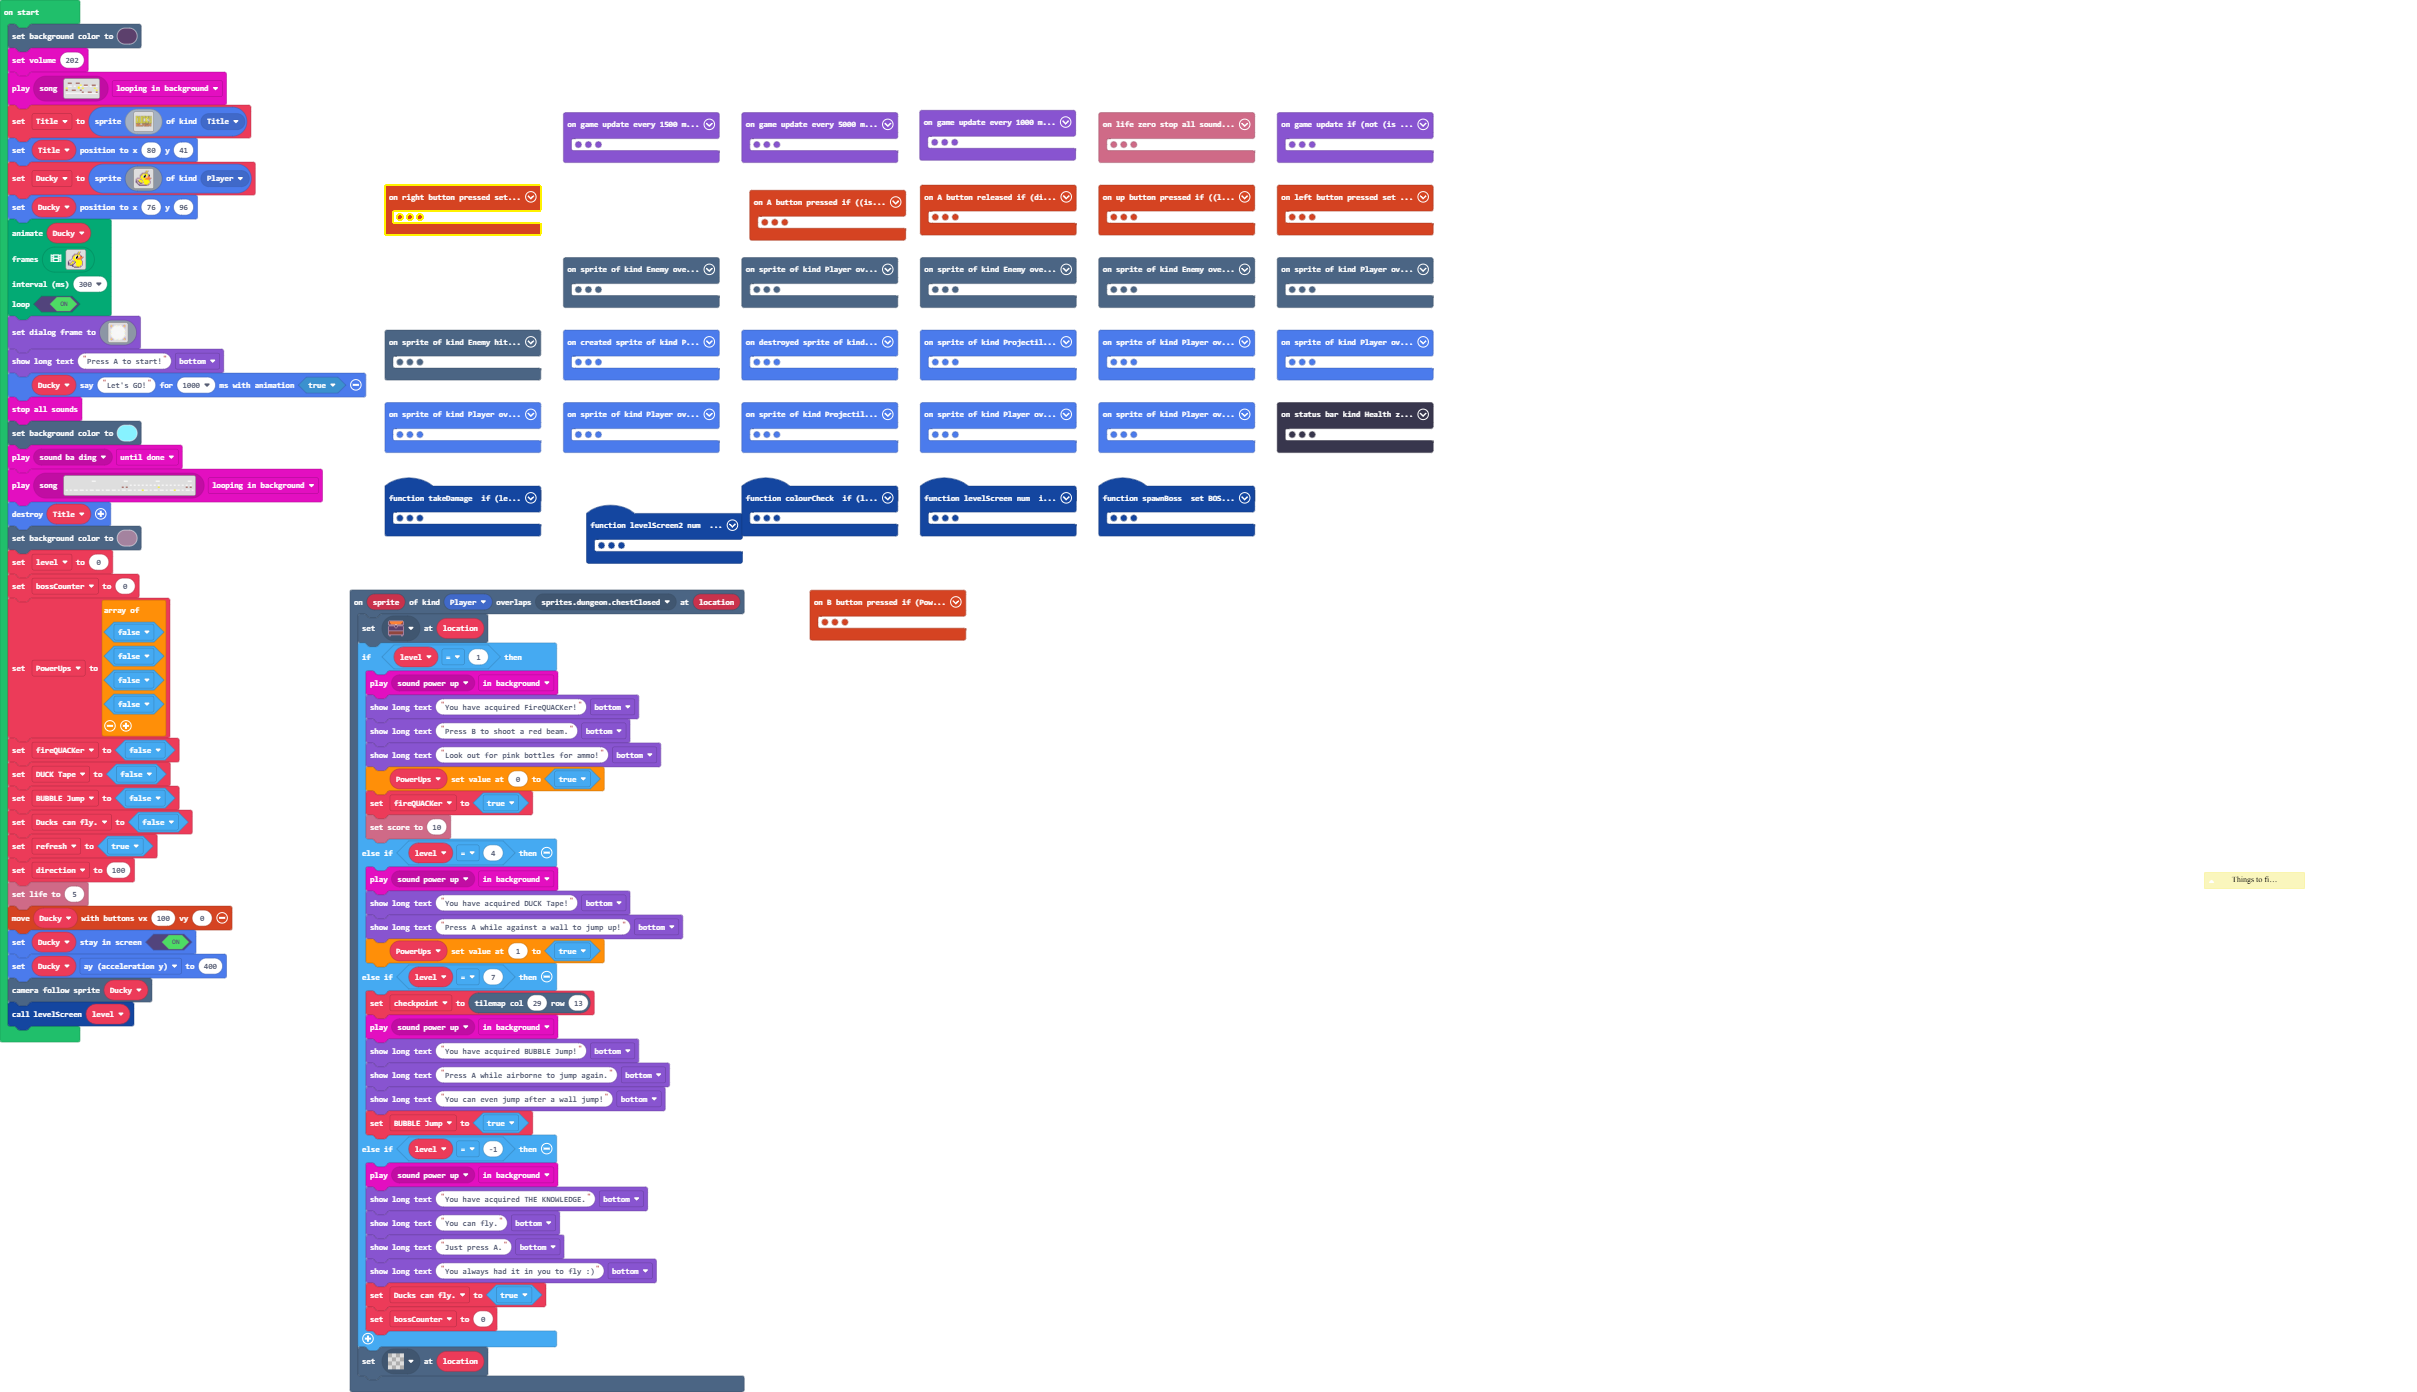
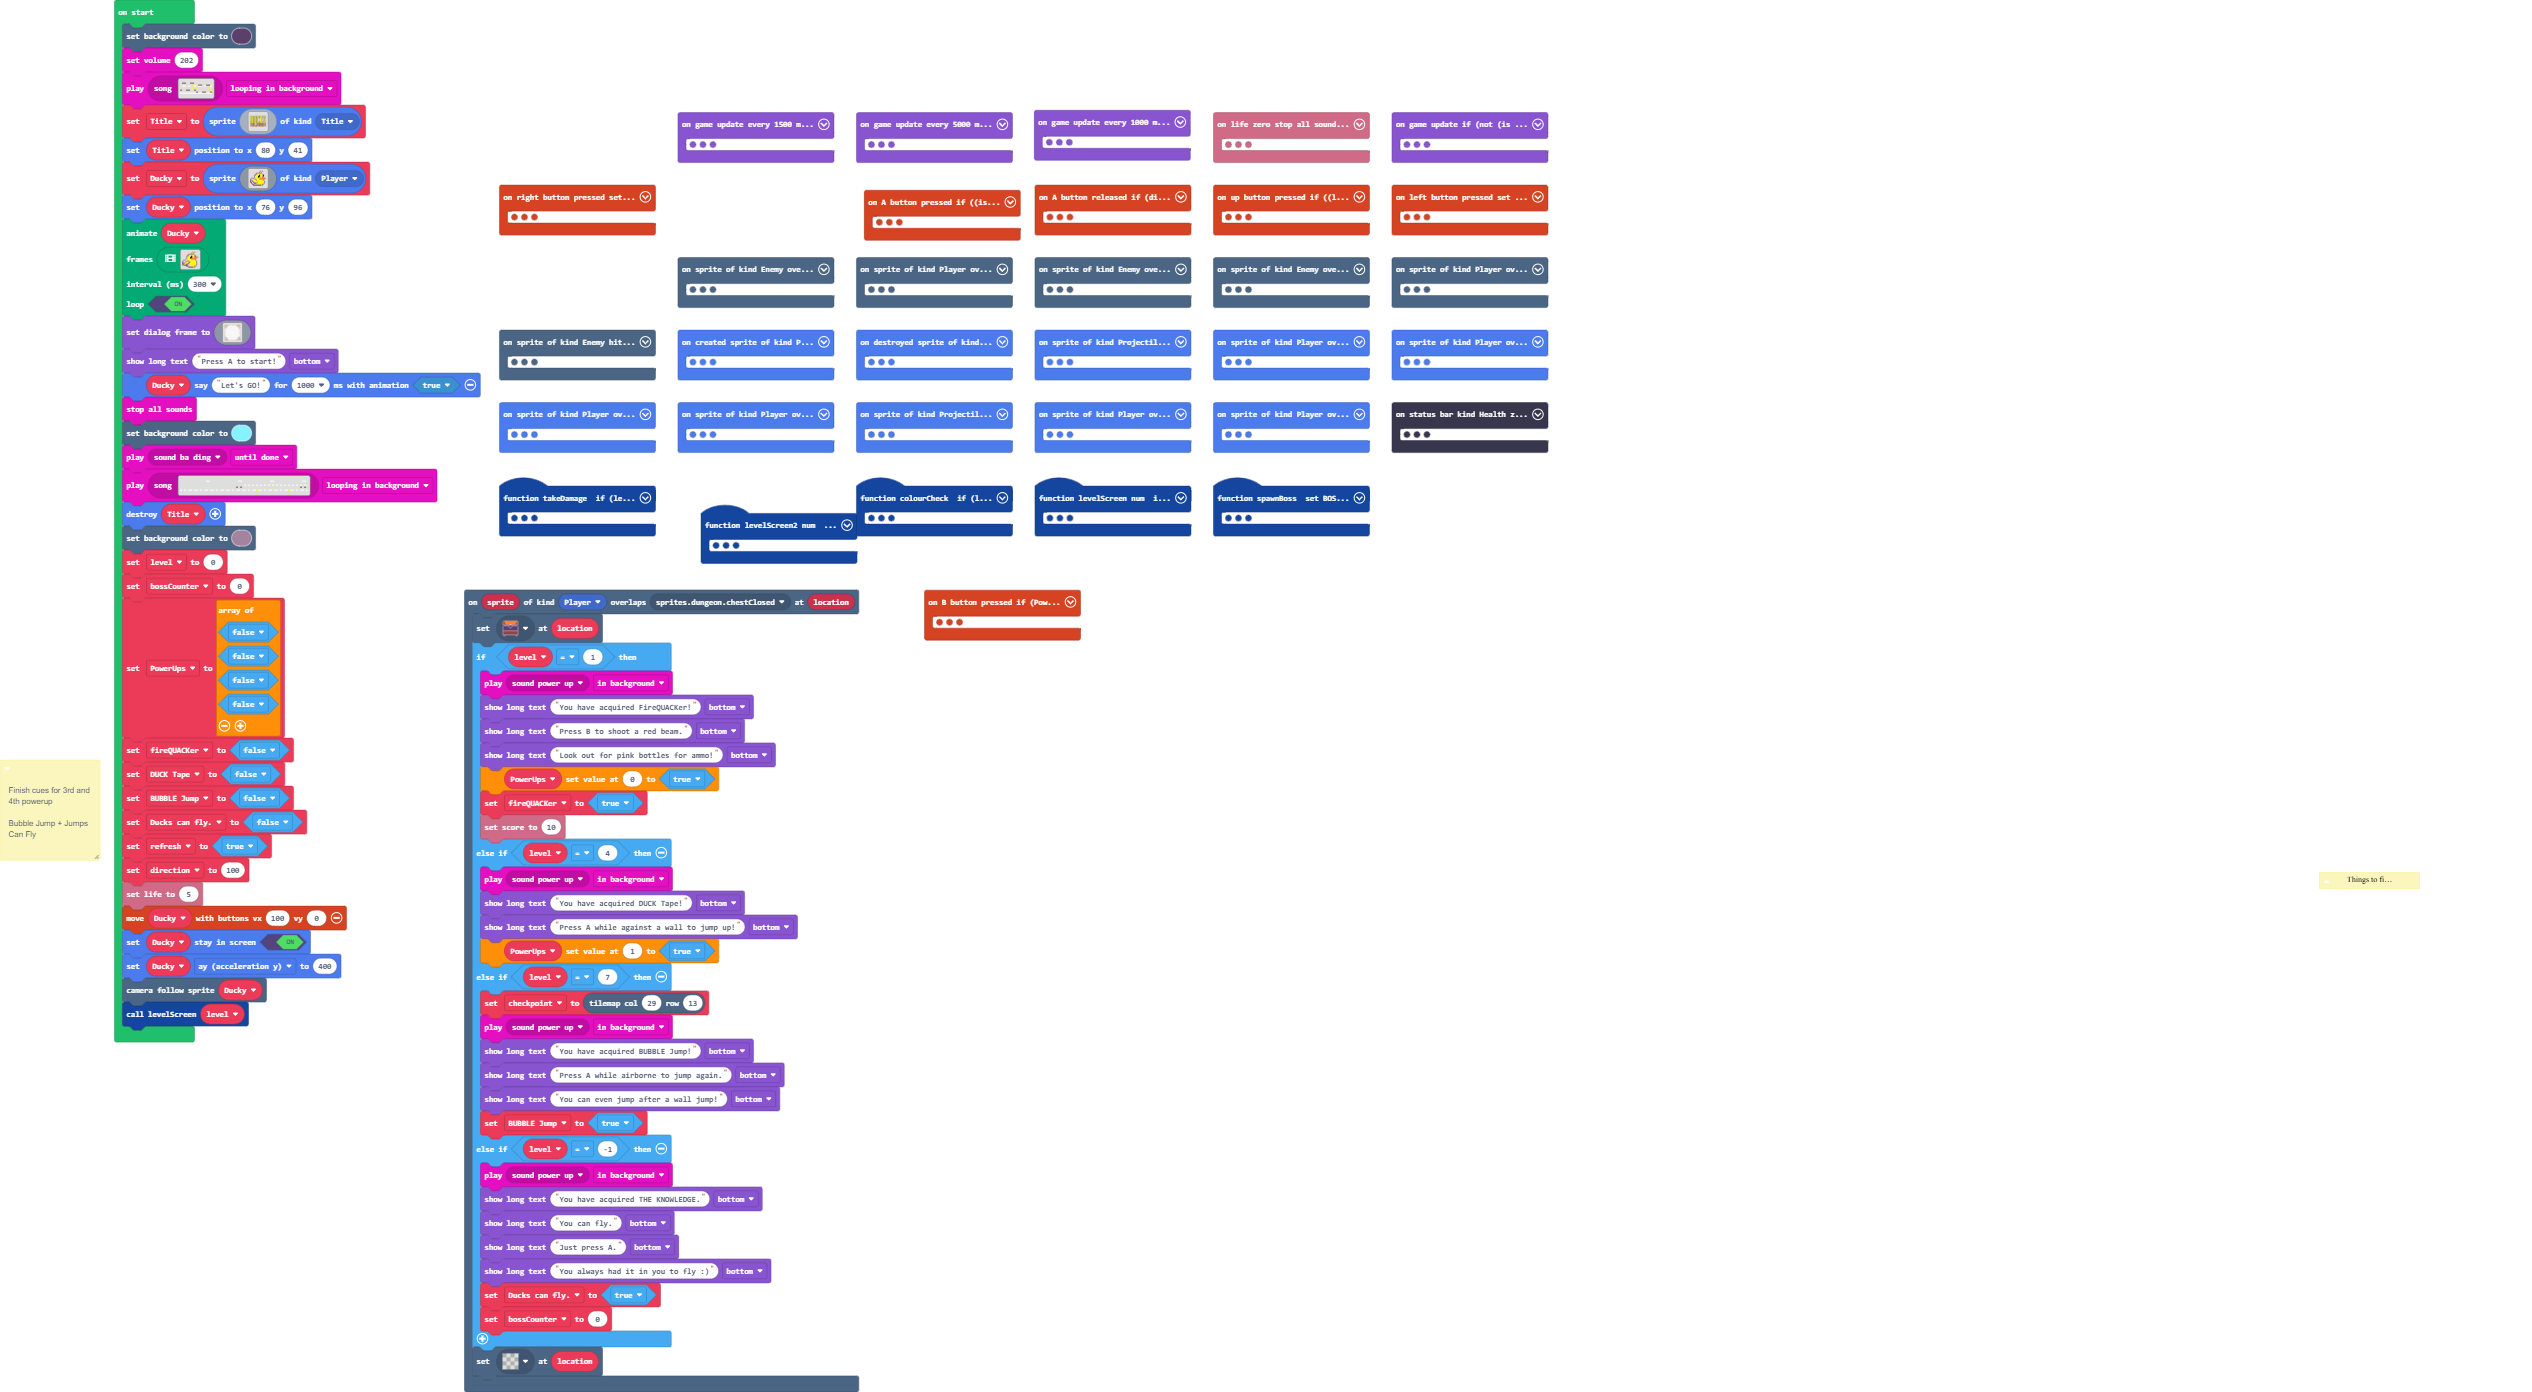
Finish cues for 3rd and 4th powerup  Bubble Jump + Jumps Can Fly

Changed region(s): [[0.0, 0.0, 0.6206, 1.0], [0.3103, 0.9885, 0.3413, 1.0]]

diff --git a/main.ts b/main.ts
@@ -9,6 +9,11 @@ namespace SpriteKind {
     export const Text = SpriteKind.create()
 }
 /**
+ * Finish cues for 3rd and 4th powerup
+ * 
+ * Bubble Jump + Jumps Can Fly
+ */
+/**
  * Things to fix
  * 
  * - Lose 2 damage when touching coral.
